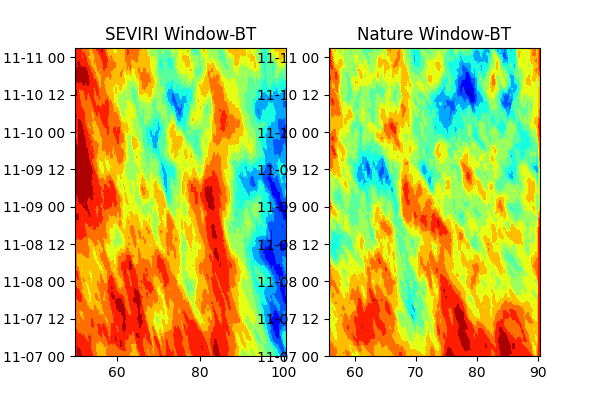
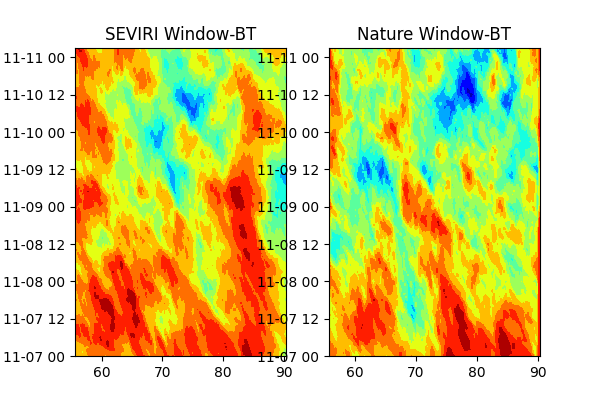
meow

Changed region(s): [[0.12, 0.12, 0.51, 0.96]]

diff --git a/nature_run/validate_nature_run.py b/nature_run/validate_nature_run.py
@@ -158,6 +158,8 @@ axs[0].contourf( np.mean( hov_data['seviri']['lon'], axis=0 ),
                  hov_data['seviri']['date'] ,
                  hov_data['seviri']['window'], crange, cmap = cmap )
 axs[0].set_title('SEVIRI Window-BT')
+axs[0].set_xlim( [ np.mean( hov_data['nature']['lon'], axis=0 ).min(),
+                   np.mean( hov_data['nature']['lon'], axis=0 ).max() ] )
 
 # Plot nature run stuff
 axs[1].contourf( np.mean( hov_data['nature']['lon'], axis=0 ),
